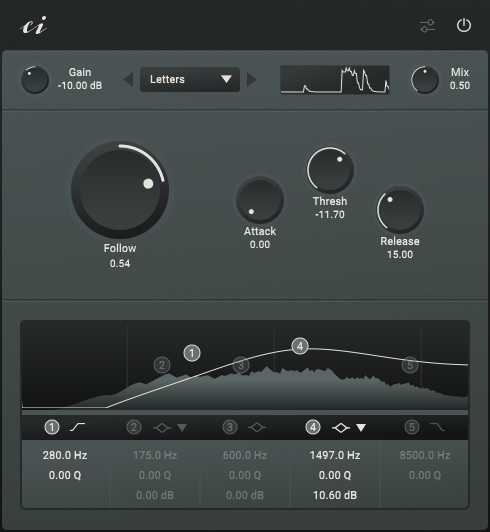
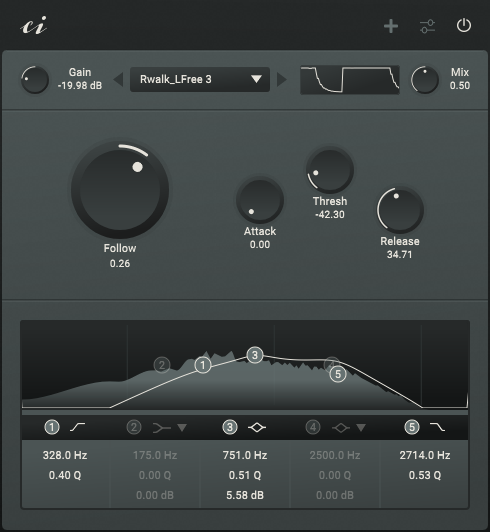
Updated README.md and tumult.png; Missing samples can no longer be selected

diff --git a/Scripts/loadCustomSample.js b/Scripts/loadCustomSample.js
@@ -46,26 +46,25 @@ const var wFormW = AudioWaveform1.getWidth();
 const var wFormH = AudioWaveform1.getHeight();
 const var barW = pnlLoopStart.getWidth();
 
-const var SLASH = (Engine.getOS() == "WIN") ? "\\" : "/";
-const var NOISES = ["Noise::White", "Noise::Pink", "Noise::Brown", "Noise::Velvet", "Noise::Crushed", 
-					"Vinyl::Vinyl 1", "Vinyl::Vinyl 2", "Vinyl::Vinyl 3", "Vinyl::Vinyl 4", "Vinyl::Vinyl 5", 
-					"Static::Electric 1", "Static::Electric 2", "Static::Film", "Static::Gramophone", "Static::Radio", "Static::TV", 
-					"Machine::Computer", "Machine::Dough", "Machine::Fridge 1", "Machine::Fridge 2", "Machine::Furnance", "Machine::Letters", "Machine::Oven", "Machine::Air 1", "Machine::Air 2", "Machine::Vending", "Machine::Washing", 
-					"Hum::Alien 1", "Hum::Alien 2", "Hum::Electric 1", "Hum::Electric 2", "Hum::VHS", 
-					"World::City 1", "World::City 2", "World::City 3", "World::Crowd", "World::Fire 1", "World::Fire 2", "World::Fire 3", "World::Fire 4", "World::Rain 1", "World::Rain 2", "World::Rain 3", "World::Rain 4", "World::Rain 5", "World::Underground", "World::Waterfall 1", "World::Waterfall 2", "World::Waterfall 3", "World::Waterfall 4", 
-					"Noise Plethora::A::RadioOhNo 1", "Noise Plethora::A::RadioOhNo 2", "Noise Plethora::A::Rwalk_SineFMFlange", "Noise Plethora::A::xModRingSqr", "Noise Plethora::A::xModRingSine 1", "Noise Plethora::A::xModRingSine 2", "Noise Plethora::A::CrossModRing 1", "Noise Plethora::A::CrossModRing 2", "Noise Plethora::A::Resonoise", "Noise Plethora::A::GrainGlitch 1", "Noise Plethora::A::GrainGlitch 2", "Noise Plethora::A::GrainGlitchII 1", "Noise Plethora::A::GrainGlitchII 2", "Noise Plethora::A::GrainGlitchIII 1", "Noise Plethora::A::GrainGlitchIII 2", "Noise Plethora::A::Basurilla 1", "Noise Plethora::A::Basurilla 2", 
-					"Noise Plethora::B::ClusterSaw", "Noise Plethora::B::PwCluster", "Noise Plethora::B::CrCluster2", "Noise Plethora::B::SineFMcluster", "Noise Plethora::B::TriFMcluster", "Noise Plethora::B::Primecluster", "Noise Plethora::B::PrimecCnoise", "Noise Plethora::B::FibonacciCluster", "Noise Plethora::B::PartialCluster", "Noise Plethora::B::PhasingCluster", 
-					"Noise Plethora::C::BasuraTotal 1", "Noise Plethora::C::BasuraTotal 2", "Noise Plethora::C::Atari", "Noise Plethora::C::WakingFilomena 1", "Noise Plethora::C::WakingFilomena 2", "Noise Plethora::C::P_S_H", "Noise Plethora::C::ArrayOnTheRocks 1", "Noise Plethora::C::ArrayOnTheRocks 2", "Noise Plethora::C::ArrayOnTheRocks 3", "Noise Plethora::C::ArrayOnTheRocks 4", "Noise Plethora::C::ExistencelsPain 1", "Noise Plethora::C::ExistencelsPain 2", "Noise Plethora::C::WhoKnows 1", "Noise Plethora::C::WhoKnows 2", "Noise Plethora::C::WhoKnows 3", "Noise Plethora::C::SatanWorkout 1", "Noise Plethora::C::SatanWorkout 2", "Noise Plethora::C::Rwalk_BitCrushPW 1", "Noise Plethora::C::Rwalk_BitCrushPW 2", "Noise Plethora::C::Rwalk_BitCrushPW 3", "Noise Plethora::C::Rwalk_LFree 1", "Noise Plethora::C::Rwalk_LFree 2", "Noise Plethora::C::Rwalk_LFree 3"];
+const var GEN_NOISES =  ["Noise::White", "Noise::Pink", "Noise::Brown", "Noise::Velvet", "Noise::Crushed"]; 
+const var CORE_CAT = ["Vinyl::", "Static::", "Machine::", "Hum::", "World::"];
+const var VINYL_NOISES = ["Vinyl 1", "Vinyl 2", "Vinyl 3", "Vinyl 4", "Vinyl 5"];
+const var STATIC_NOISES = ["Electric 1", "Electric 2", "Film", "Gramophone", "Radio", "TV"];
+const var MACHINE_NOISES = ["Computer", "Dough", "Fridge 1", "Fridge 2", "Furnance", "Letters", "Oven", "Air 1", "Air 2", "Vending", "Washing"];
+const var HUM_NOISES = ["Alien 1", "Alien 2", "Electric 1", "Electric 2", "VHS"];
+const var WORLD_NOISES = ["City 1", "City 2", "City 3", "Crowd", "Fire 1", "Fire 2", "Fire 3", "Fire 4", "Rain 1", "Rain 2", "Rain 3", "Rain 4", "Rain 5", "Underground", "Waterfall 1", "Waterfall 2", "Waterfall 3", "Waterfall 4"];
+const var CORE_NOISES = [VINYL_NOISES, STATIC_NOISES, MACHINE_NOISES, HUM_NOISES, WORLD_NOISES];
+
+const var PLETHORA_CAT = ["A::", "B::", "C::"];
+const var PLETHORA_A_NOISES = ["RadioOhNo 1", "RadioOhNo 2", "Rwalk_SineFMFlange", "xModRingSqr", "xModRingSine 1", "xModRingSine 2", "CrossModRing 1", "CrossModRing 2", "Resonoise", "GrainGlitch 1", "GrainGlitch 2", "GrainGlitchII 1", "GrainGlitchII 2", "GrainGlitchIII 1", "GrainGlitchIII 2", "Basurilla 1", "Basurilla 2"];
+const var PLETHORA_B_NOISES = ["ClusterSaw", "PwCluster", "CrCluster2", "SineFMcluster", "TriFMcluster", "Primecluster", "PrimecCnoise", "FibonacciCluster", "PartialCluster", "PhasingCluster"];
+const var PLETHORA_C_NOISES = ["BasuraTotal 1", "BasuraTotal 2", "Atari", "WakingFilomena 1", "WakingFilomena 2", "P_S_H", "ArrayOnTheRocks 1", "ArrayOnTheRocks 2", "ArrayOnTheRocks 3", "ArrayOnTheRocks 4", "ExistencelsPain 1", "ExistencelsPain 2", "WhoKnows 1", "WhoKnows 2", "WhoKnows 3", "SatanWorkout 1", "SatanWorkout 2", "Rwalk_BitCrushPW 1", "Rwalk_BitCrushPW 2", "Rwalk_BitCrushPW 3", "Rwalk_LFree 1", "Rwalk_LFree 2", "Rwalk_LFree 3"];
+const var PLETHORA_NOISES = [PLETHORA_A_NOISES, PLETHORA_B_NOISES, PLETHORA_C_NOISES];
 
 reg currentFile;
 reg numSamples;
 reg currentPreset = "";
 reg numberCustomNoises;
-
-
-
-
-
 
 // ##############
 // Custom loading, saving, ...
@@ -104,9 +103,47 @@ getSetPresetList();
 
 inline function setNoiseSelectItems()
 {
-	allSamples.reserve(NOISES.length + userPresets.length);
-	allSamples = NOISES.clone();
-
+	allSamples.reserve(NUMBER_NOISES + userPresets.length);
+	allSamples = GEN_NOISES.clone();
+	
+	local disCore = "";
+	local disPlethora = "";
+	
+	if (!coreSamplesExists && !plethoraSamplesExists)
+	{
+		disCore = "~~";
+		disPlethora = "~~";
+	}
+	else if (coreSamplesExists && !plethoraSamplesExists)
+	{
+		disCore = "";
+		disPlethora = "~~";
+	}
+	else if (!coreSamplesExists && plethoraSamplesExists)
+	{
+		disCore = "~~";
+		disPlethora = "";		
+	}
+	
+	// Add Core Samples
+	for (i = 0; i < CORE_CAT.length; i++)
+	{
+		for (k = 0; k < CORE_NOISES[i].length; k++)
+		{
+			allSamples.push(CORE_CAT[i] + disCore + CORE_NOISES[i][k] + disCore);
+		}
+	}
+	
+	// Add Plethora Samples
+	for (i = 0; i < PLETHORA_CAT.length; i++)
+	{
+		for (k = 0; k < PLETHORA_NOISES[i].length; k++)
+		{
+			allSamples.push("Noise Plethora::" + PLETHORA_CAT[i] + disPlethora + PLETHORA_NOISES[i][k] + disPlethora);
+		}
+	}
+	
+	// Add Custom Semples
 	if (userPresets.length > 0)
 	{
 		for (p in userPresets)
@@ -114,6 +151,7 @@ inline function setNoiseSelectItems()
 			allSamples.push("Custom::" + p);
 		}
 	}
+	
 	cmbSelect.set("items", allSamples.join("\n"));
 	cmbSelect.changed();
 }

diff --git a/Scripts/ScriptProcessors/tumult/Interface.js b/Scripts/ScriptProcessors/tumult/Interface.js
@@ -15,9 +15,8 @@ Content.makeFrontInterface(490, 532);
 Engine.loadFontAs("{PROJECT_FOLDER}Fonts/Roboto-Medium.ttf", "Roboto-Medium");
 Engine.setGlobalFont("Roboto-Medium");
 
-// Includes
+// Include
 include("icons.js");
-include("loadCustomSample.js");
 
 const var NUMBER_NOISES = 100;
 const var NUMBER_CORE_SAMPLES = 45;
@@ -123,6 +122,12 @@ inline function checkSamples()
 	}
 }
 checkSamples();
+
+
+// Include
+include("loadCustomSample.js");
+
+
 	
 
 // ##############

diff --git a/README.md b/README.md
@@ -1,12 +1,14 @@
 # Tumult
-Tumult makes noise. Tumult texturizes, accentuates and adds warmth and age. Tumult comes with 50 hand-picked noises. You can play them raw, let them follow your sounds, or duck them away. Tumult comes with an 5-band EQ that lets you shape the noises to your liking. Tumult is a free and open source 64bit VST3 effect plugin for Linux and Windows.
+Tumult makes noise. Tumult texturizes, accentuates and adds warmth and age. Tumult comes with 100 hand-picked noises. You can choose one of them or import your own samples and play them raw, let them follow your sounds or duck them away. Tumult comes with an 5-band EQ that lets you shape the noises to your liking. Tumult is a free and open source 64bit VST3 effect plugin for Linux and Windows. 
+
+You can see Tumult in action here: https://www.youtube.com/watch?v=KRveIBVNHOA
 
 Download the latest version here: https://github.com/consint/Tumult/releases/
 
 ![Preview of the Tumult interface](tumult.png)
 
 ## How it works
-The effect plugin plays one of 50 noises that can be added to the actual audio signal using the ‘Mix’ knob. The ‘Gain’ knob controls the volume, and the equaliser controls the frequency response of the noise - the actual audio signal is not affected.
+The effect plugin plays one of 100 noises, or the samples you have imported, and add them to the actual audio signal using the ‘Mix’ knob. The ‘Gain’ knob controls the volume, and the equalizer controls the frequency response of the noise - the actual audio signal is not affected.
 
 In ‘Raw’ mode, the noise is played back without any influence. In ‘Duck’ mode, the noise is ducked away by the actual audio signal. In ‘Folllow’ mode, the noise only plays when the actual audio signal is playing (depending on the threshold).
 
@@ -16,9 +18,14 @@ In ‘Raw’ mode, the noise is played back without any influence. In ‘Duck’
 3. Copy the ‘TumultSamples’ folder wherever you want, for example to a location where you also save other samples.
 4. In order for Tumult to **find the samples**, the path to the sample folder must be specified in the plugin. To do this, open the plugin in a host of your choice, open the settings, select ‘Change Sample Folder Location’ and select the ‘TumultSamples’ folder. For the changes to take effect, you must remove the plugin from the host and reload it.
 
+## Known bugs
+* The noise selection box shows tick marks in the wrong place. This is a bug in Hise that I have already [reported](https://github.com/christophhart/HISE/issues/739).
+* Drag & Drop does not work on Linux. This is a general problem for which there is, as far as I know, no generally applicable solution in JUCE.
+
 ## How to use
 ### General
 Buttons can be adjusted by dragging. If you hold Ctrl or Alt while dragging, the knob can be fine-tuned. If you press Shift while clicking on a button, you can enter a value as text.
+
 
 ### Interface
 #### Bypass
@@ -31,7 +38,7 @@ The ‘ci‘ logo or the settings icon shows and closes the settings.
 Adjusts the volume of the noise. I have placed a **clipper** behind the noise so that gain values above 0 will distort the noise.
 
 #### Noise selection
-The noise can be selected using the combo box or the two arrows next to it. The different sounds are divided into six categories, whereby all sounds in the ‘Noise’ category are generated and the sounds in all other categories are samples.
+The noise can be selected using the combo box or the two arrows next to it. The different sounds are divided into eight categories, whereby all sounds in the ‘Noise’ category are generated and the sounds in all other categories are samples. The ‘Custom’ category is only displayed once at least one of your own samples has been imported into Tumult.
 
 #### Mix
 Blends between the actual signal and the noise.
@@ -50,6 +57,39 @@ Determines the time it takes for the noise to stop playing after the end of the 
 
 #### Equalizer
 Works like any conventional EQ. Left-click to activate a filter. Right-click to deactivate it. You can move the individual filters using drag and drop. The Q factor can be set using the mouse wheel. Band 1 is a high-pass filter. Band two can be switched between a bell and low shelf filter. Band 3 is a bell filter. Band 4 can be switched between a bell and a high shelf filter. Band 5 is a low-pass filter.
+
+### Add / Import Samples
+Click on the + at the top right of the plugin to open the sample import window.
+
+#### New
+Clears the window and lets you import a new sample.
+
+#### Folder Import
+Opens another window that allows you to import all .wav files in a folder at once. Once you have selected a folder, the number of audio files to be imported is displayed. Use the gain and fade knobs to set the values for all samples. If you select ‘Normalise’, all samples are normalised during import. Depending on the size of the files and the sampling rate, this may take a little longer. Click on ‘Import’ if you want to start the import process. ‘Cancel’ cancels the import process and closes the “Folder Import” window.
+
+#### Load
+Here you can open existing samples for editing. Note that only a click on ‘Save’ saves the changes.
+
+#### Save
+Click on ‘Save’ to save the sample with the settings you have made. After saving, the sample appears under the specified name in the ‘Custom’ category.
+
+#### Delete
+A previously loaded sample can be deleted here. This does not delete the actual audio file but only the entry in Tumult.
+
+#### Drop audio file or Right Click to open Browser
+Here you can import your actual audio file. Only the .wav format is supported. After successfully opening the file, the name and waveform of the file will be displayed. The name can be changed as desired. The loop to be played can be set using the two white bars to the left and right of the waveform.
+
+#### Fade
+Here you can set the length of the fade that fades out the end of the loop and fades in the beginning of the loop at the same time. This can prevent clicking.
+
+#### Gain
+The volume of the sample can be set here.
+
+#### Normalise
+Click on ‘Normalise’ to set the gain so that the sample is normalised to 0dB.
+
+#### File Info
+The length of the sample, the sampling rate and the file path are displayed here.
 
 ### Settings
 #### Show Spectrum Analyzer
@@ -82,9 +122,9 @@ If you need help you can ask me or have a look at the great [Hise forum](https:/
 ## Credits
 Many thanks to Christoph Hart for making [Hise](https://github.com/christophhart/HISE). Thanks to David Healey for the great [Hise tutorials](https://www.youtube.com/@DHealey/featured). Thanks to the whole [Hise forum](https://forum.hise.audio/) for the friendly interaction and the great mutual help and support.
 
-All samples are from [freesound.org](https://freesound.org/) and are licensed under a ‘Creative Commons 0’ licence. My thanks go to all the producers who created and provided these samples.
+All samples from categories Vinyl, Static, Machine, Hum and World are from [freesound.org](https://freesound.org/) and are licensed under a ‘Creative Commons 0’ licence. My thanks go to all the producers who created and provided these samples. You can find all links to the original samples down below (as of September 2024).
 
-You can find all links to the original samples here (as of September 2024):
+All samples from category Noise Plethora are recordings from the Eurorack module of the same name by [Befaco](https://www.befaco.org/noise-plethora/). They are published under a ‘Creative Commons 0’ licence on [freesound.org](https://freesound.org/).de and can be downloaded here: https://freesound.org/people/consint/
 
 #### Vinyl
 * Vinyl 1: https://freesound.org/s/699693/
